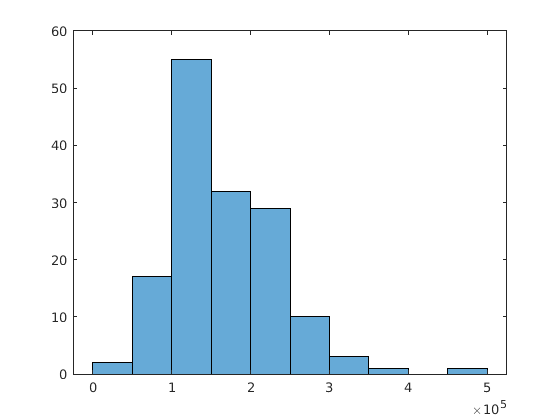
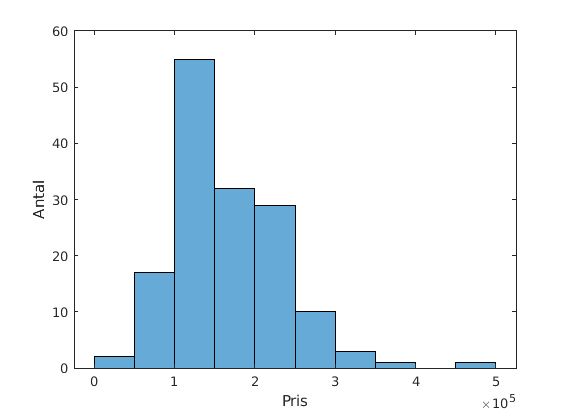
Komplettering

diff --git a/projekt.m b/projekt.m
@@ -1,8 +1,13 @@
 %% Uppgift 1 och 2
 load('huspriser55.mat')
 histogram(pris)
+xlabel('Pris')
+ylabel('Antal')
 %figure
 %cdfplot(pris)
+
+figure
+probplot(pris)
 
 dyrast = prctile(pris, 90) % 10% dyraste husen
 billigast = prctile(pris,20) %20% billigaste husen
@@ -13,6 +18,7 @@ xNorm = (0:.1:370000);
 yNorm = normpdf(xNorm, 164583, 68267.9);
 figure
 plot(xNorm, yNorm)
+xlabel('Pris')
 
 %% Uppgift 3
 figure
@@ -28,14 +34,18 @@ normPrisKamin = fitdist(pris(indkamin==1), 'Normal');
 
 %% Uppgift 4
 addpath('reggui');
-
-reggui(boyta, pris)
+boytam2 = boyta.*0.09290304;
+reggui(boytam2, pris)
 
 %% Uppgift 5
 korrelationPris = corrcoef(huspriser);
 
 X1 = [ones(150,1) boyta bad sovrum kamin tomt alder indkamin];
 [b, lb, r, r2, stats] = regress(pris, X1);
+X1b = [ones(150, 1) boyta bad indkamin];
+[bb, lbb, rb, r2b, statsb] = regress(pris, X1b);
+X1c = [ones(150,1) boyta bad];
+[bc, lbc, rc, r2c, statsc] = regress(pris, X1c);
 
 %% Uppgift 6
 
